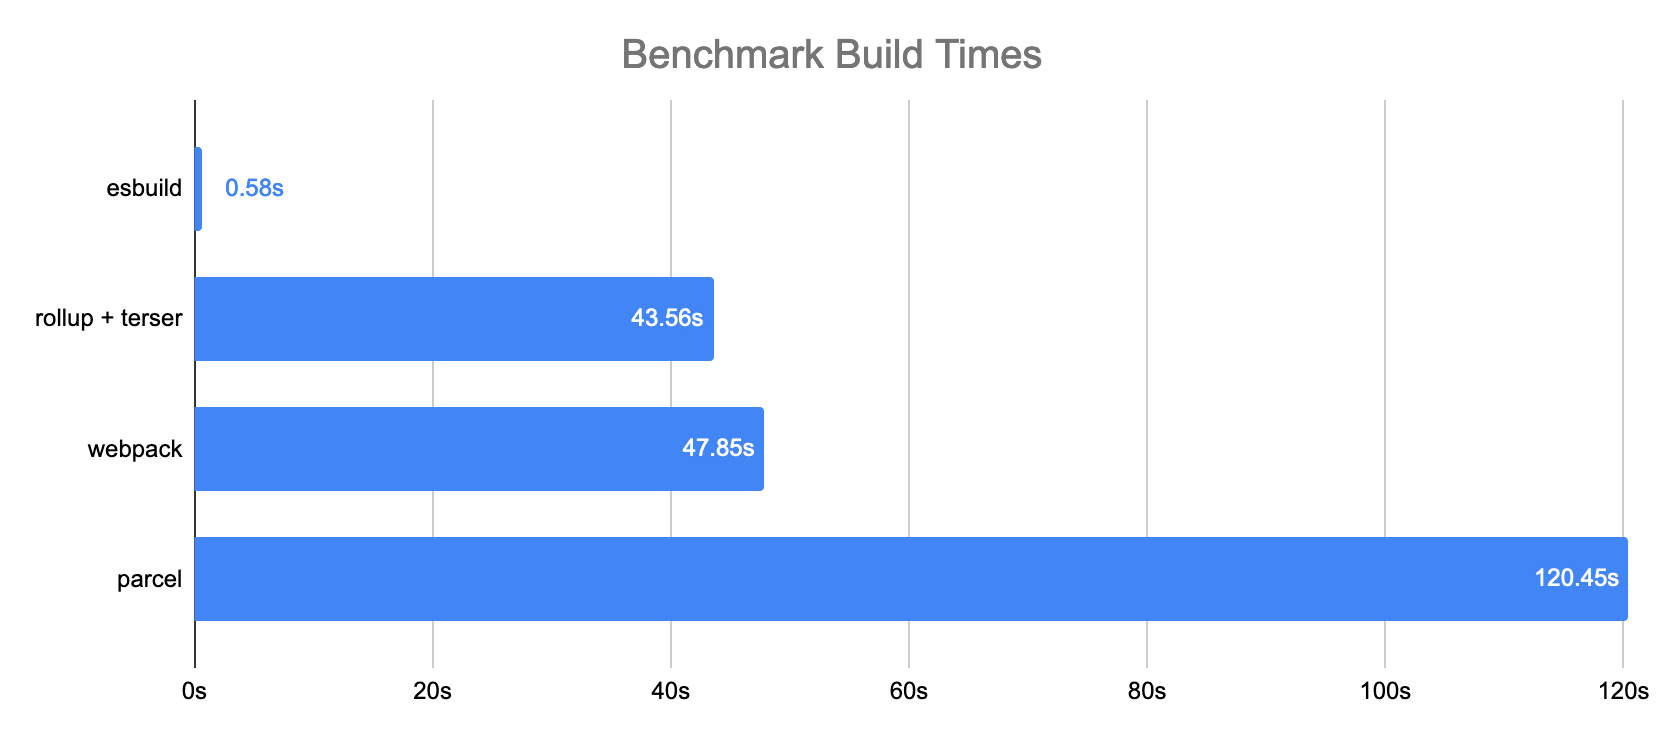
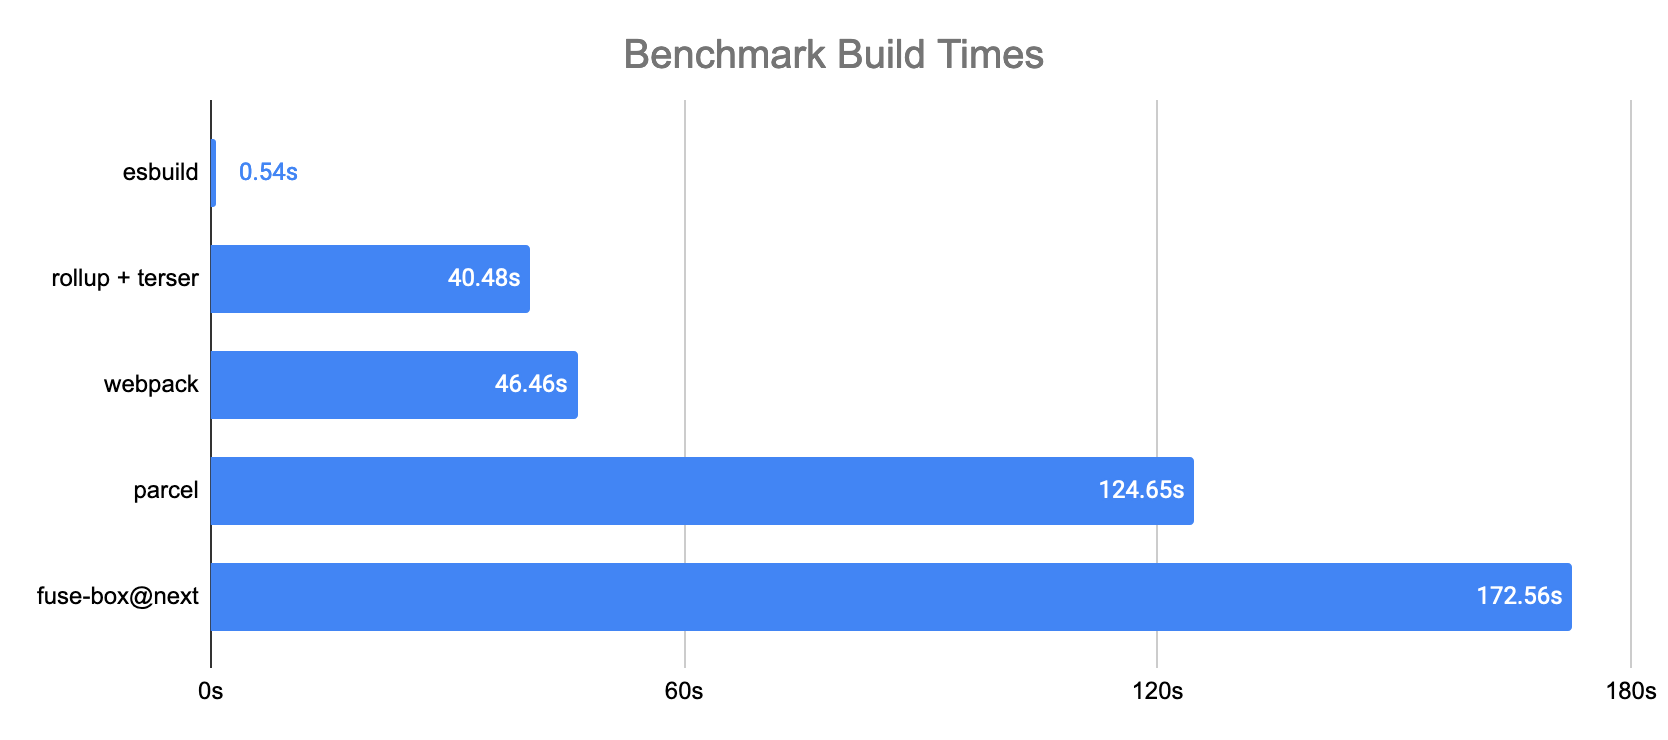
re-run the benchmark with fuse-box (fixes #11)

diff --git a/README.md b/README.md
@@ -10,18 +10,19 @@ Why build another JavaScript build tool? The current build tools for the web are
 
 The use case I have in mind is packaging a large codebase for production. This includes minifying the code, which reduces network transfer time, and producing source maps, which are important for debugging errors in production. Ideally the build tool should also build quickly without having to warm up a cache first.
 
-My main benchmark approximates a large codebase by duplicating the [three.js](https://github.com/mrdoob/three.js) library 10 times and building a single bundle from scratch, without any caches. For this benchmark, esbuild is **10-100x faster** than the other JavaScript bundlers I tested (webpack, rollup, and parcel). The benchmark can be run with `make bench-three`.
+My main benchmark approximates a large codebase by duplicating the [three.js](https://github.com/mrdoob/three.js) library 10 times and building a single bundle from scratch, without any caches. For this benchmark, esbuild is **10-100x faster** than the other JavaScript bundlers I tested (Webpack, Rollup, Parcel, and FuseBox). The benchmark can be run with `make bench-three`.
 
 ![](images/benchmark.png)
 
 | Bundler         |    Time | Relative slowdown | Absolute speed | Output size |
 | :-------------- | ------: | ----------------: | -------------: | ----------: |
-| esbuild         |   0.58s |                1x |    1028 kloc/s |      5.83mb |
-| rollup + terser |  43.56s |               75x |      14 kloc/s |      5.96mb |
-| webpack         |  47.85s |               83x |      12 kloc/s |      5.82mb |
-| parcel          | 120.45s |              208x |       5 kloc/s |      5.90mb |
+| esbuild         |   0.54s |                1x |  1013.8 kloc/s |      5.83mb |
+| rollup + terser |  40.48s |               75x |    13.5 kloc/s |      5.80mb |
+| webpack         |  46.46s |               86x |    11.8 kloc/s |      5.97mb |
+| parcel          | 124.65s |              231x |     4.4 kloc/s |      5.90mb |
+| fuse-box@next   | 172.56s |              320x |     3.2 kloc/s |      6.55mb |
 
-I'm running esbuild with `--bundle --minify --sourcemap`. I used the `rollup-plugin-terser` plugin because rollup itself doesn't support minification. Webpack uses `--mode=production --devtool=sourcemap`. Parcel uses the default options. The tests were done on a 6-core 2019 MacBook Pro with 16gb of RAM.
+Each time reported is the best of three runs. I'm running esbuild with `--bundle --minify --sourcemap`. I used the `rollup-plugin-terser` plugin because rollup itself doesn't support minification. Webpack uses `--mode=production --devtool=sourcemap`. Parcel uses the default options. FuseBox is configured with `useSingleBundle: true`. Absolute speed is based on the total line count including comments and blank lines, which is currently 547,441. The tests were done on a 6-core 2019 MacBook Pro with 16gb of RAM.
 
 ## Why is it fast?
 
